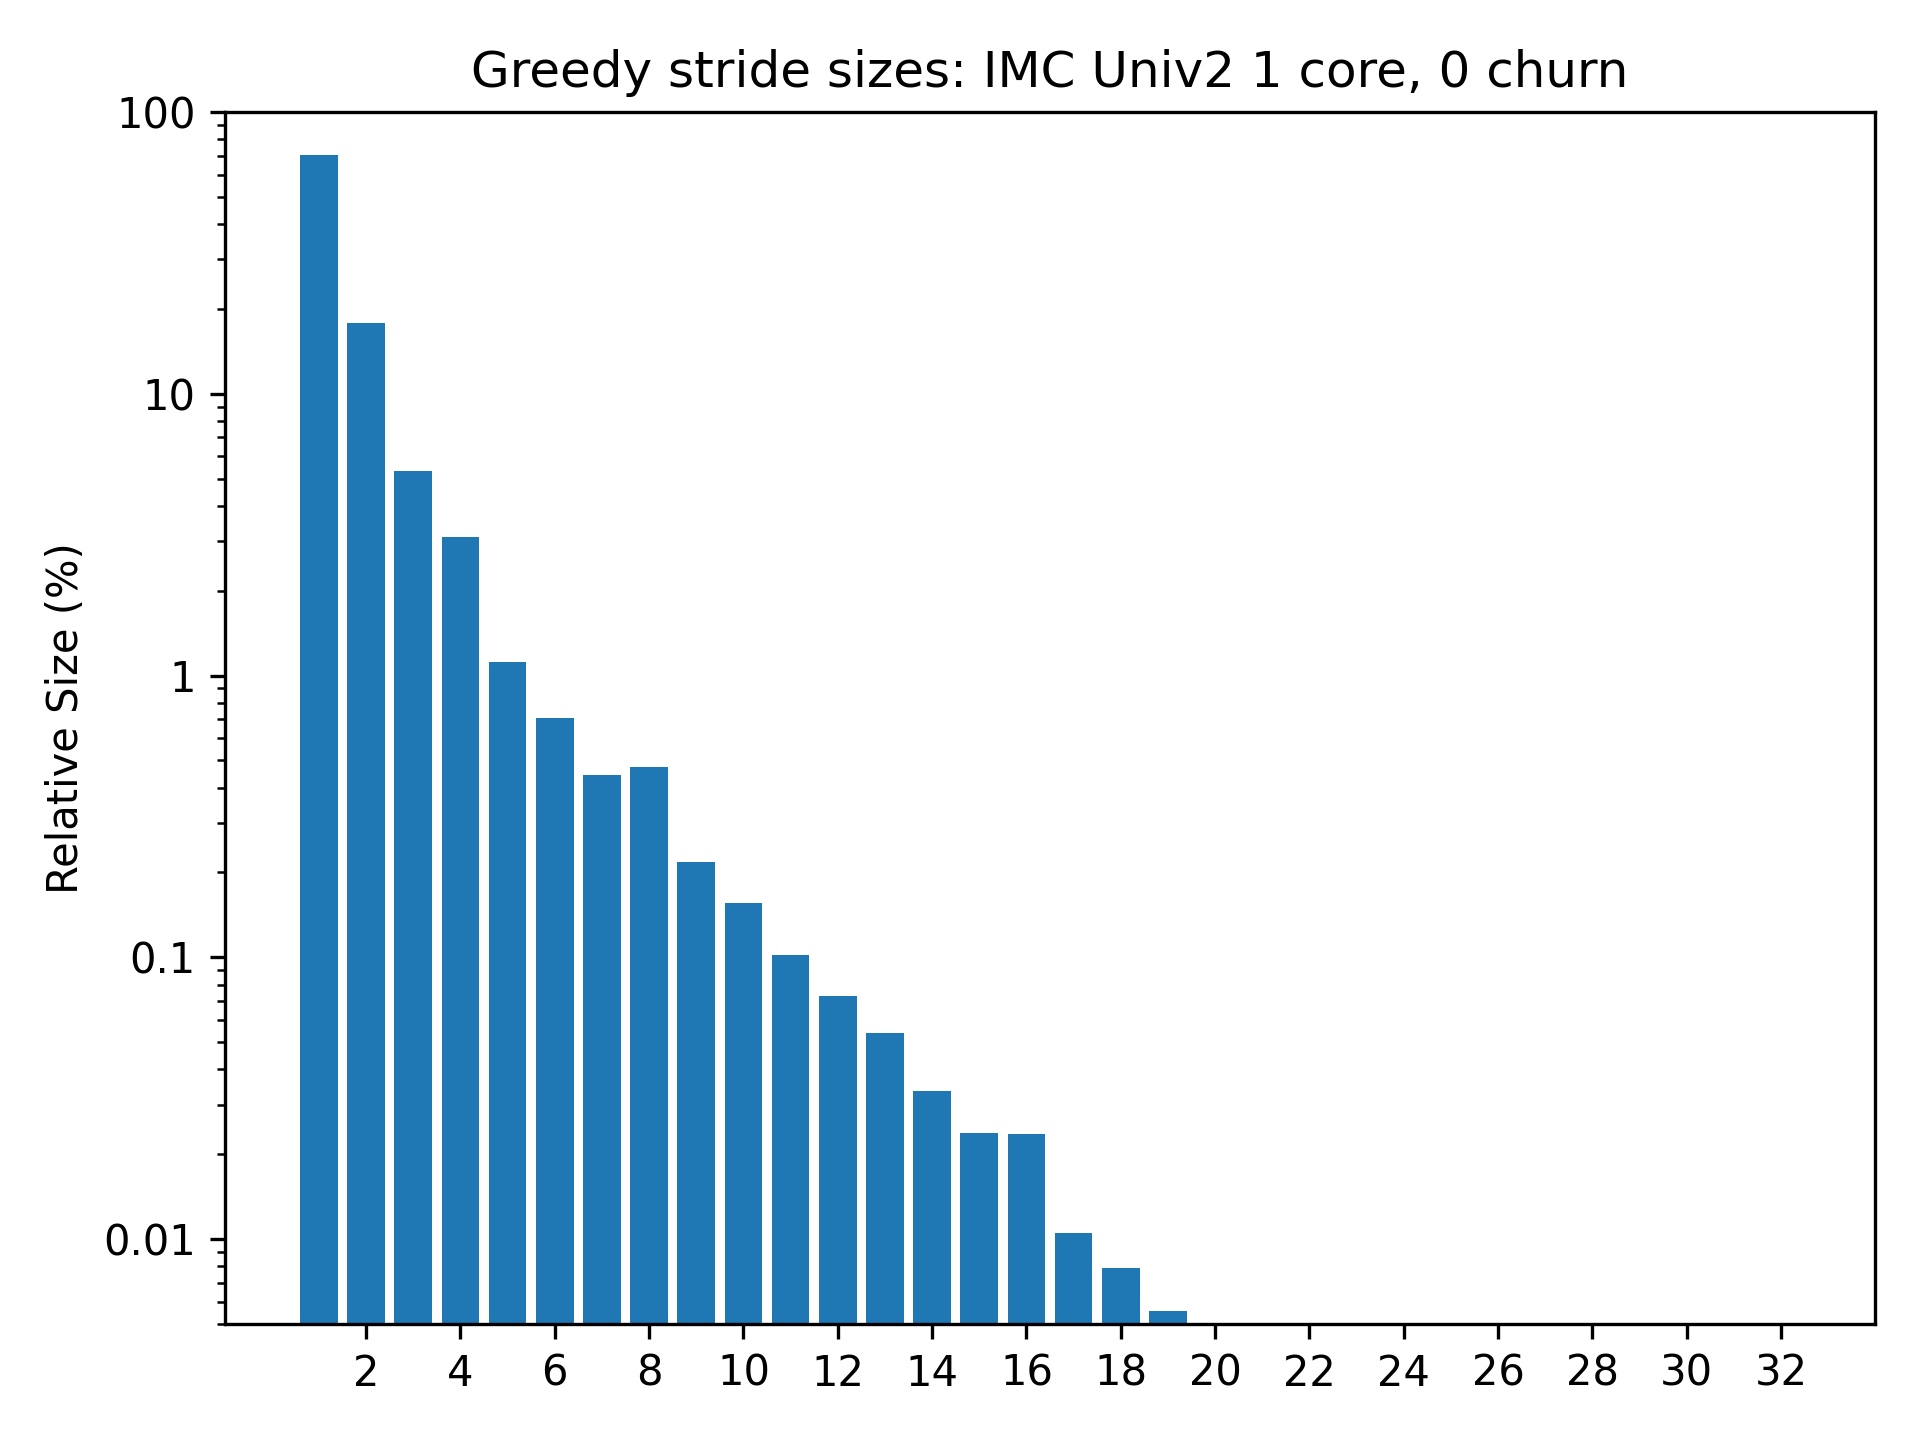
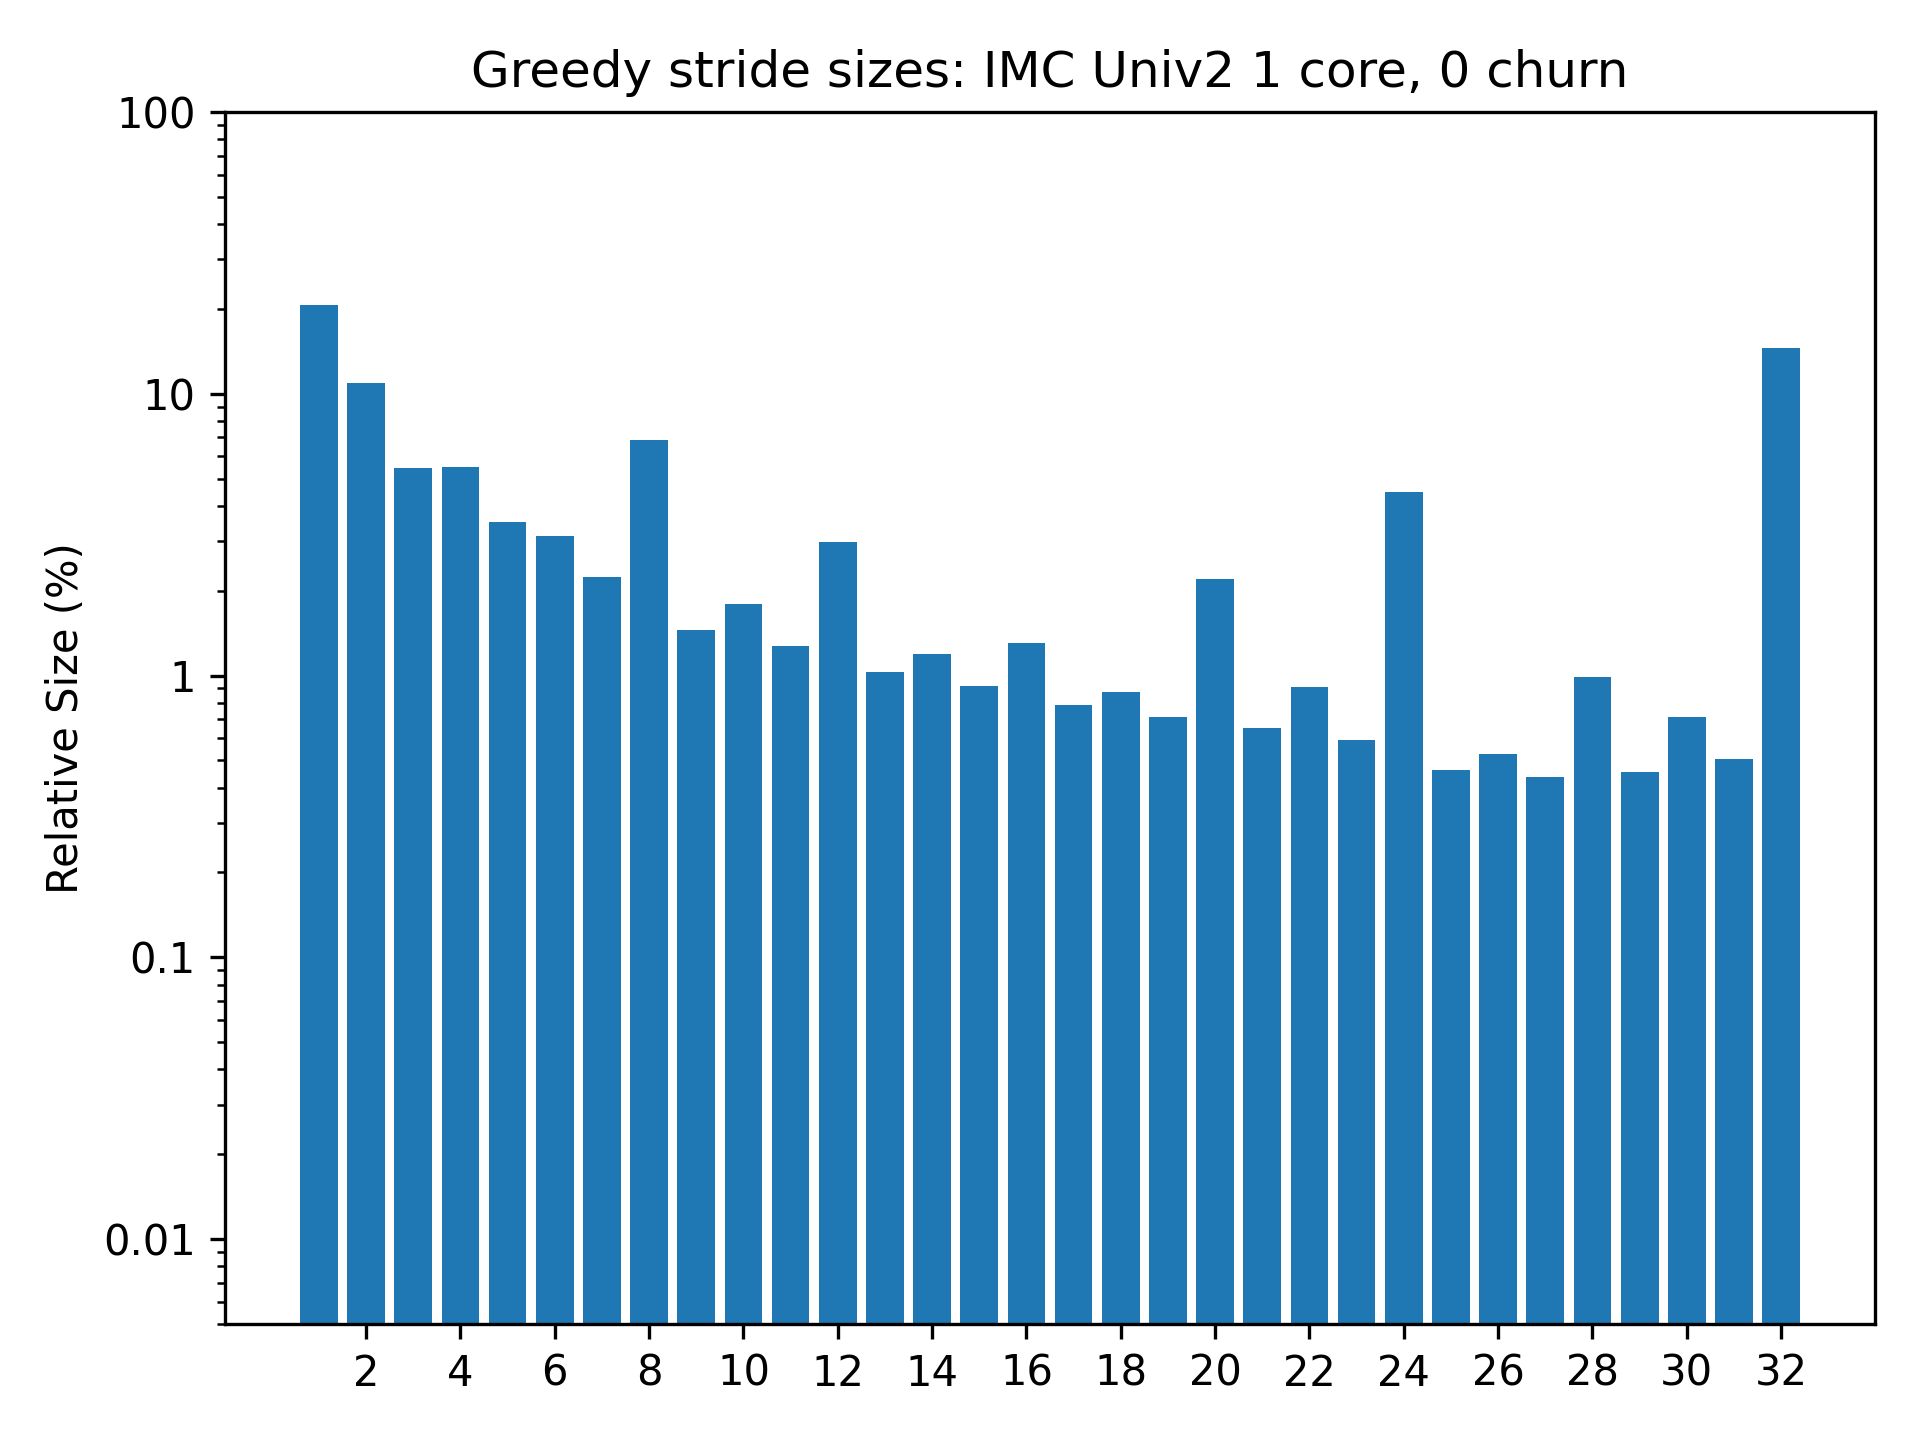
backup

Changed region(s): [[0.2188, 0.2188, 0.9375, 0.9375], [0.1562, 0.0938, 0.2188, 0.2812]]

diff --git a/microbench/preliminary_eval.py b/microbench/preliminary_eval.py
@@ -533,38 +533,38 @@ def plot_strides_sizes_imc_univ2_greedy():
     title = "Greedy stride sizes: IMC Univ2 1 core, 0 churn"
     fname = "stride_sizes_imc_univ2_unsorted"
     stride_sizes = [
-        809273943,
-        206024326,
-        61454398,
-        35664971,
-        12831274,
-        8132180,
-        5106111,
-        5446363,
-        2501762,
-        1788494,
-        1173443,
-        838122,
-        619271,
-        387616,
-        273031,
-        272320,
-        121518,
-        91302,
-        63731,
-        56163,
-        35781,
-        28643,
-        21196,
-        26825,
-        12118,
-        10305,
-        8014,
-        10435,
-        5905,
-        5720,
-        4278,
-        50896,
+        57597312,
+        30459989,
+        15231563,
+        15385831,
+        9806968,
+        8717848,
+        6263532,
+        19188117,
+        4066122,
+        5024253,
+        3546119,
+        8339323,
+        2869760,
+        3333395,
+        2566033,
+        3642966,
+        2193768,
+        2450167,
+        1999070,
+        6157174,
+        1823942,
+        2552951,
+        1650800,
+        12544143,
+        1290273,
+        1472690,
+        1216945,
+        2755520,
+        1270941,
+        1994482,
+        1415694,
+        40774965,
     ]
 
     plot_strides_sizes(title, fname, stride_sizes)
@@ -613,18 +613,18 @@ def plot_strides_sizes_imc_univ2_sorted():
 if __name__ == "__main__":
     OUT_DIR.mkdir(parents=True, exist_ok=True)
 
-    plot_1flow()
-    plot_zipfian_s1_26()
-    plot_zipfian_s1_5()
-    plot_imc_univ2()
+    # plot_1flow()
+    # plot_zipfian_s1_26()
+    # plot_zipfian_s1_5()
+    # plot_imc_univ2()
 
-    plot_strides_sizes_zipfian_s1_26_greedy()
-    plot_strides_sizes_zipfian_s1_26_sorted()
-    plot_strides_sizes_zipfian_s1_5_greedy()
-    plot_strides_sizes_zipfian_s1_5_sorted()
+    # plot_strides_sizes_zipfian_s1_26_greedy()
+    # plot_strides_sizes_zipfian_s1_26_sorted()
+    # plot_strides_sizes_zipfian_s1_5_greedy()
+    # plot_strides_sizes_zipfian_s1_5_sorted()
     plot_strides_sizes_imc_univ2_greedy()
-    plot_strides_sizes_imc_univ2_sorted()
+    # plot_strides_sizes_imc_univ2_sorted()
 
-    plot_orchestrator_zipfian_1_26()
-    plot_orchestrator_zipfian_1_5()
-    plot_orchestrator_imc_univ2()
+    # plot_orchestrator_zipfian_1_26()
+    # plot_orchestrator_zipfian_1_5()
+    # plot_orchestrator_imc_univ2()

diff --git a/nfs/executables/fw_batch_lazy.c b/nfs/executables/fw_batch_lazy.c
@@ -1,4 +1,4 @@
-#define TRACK_STRIDE_SIZES 0
+#define TRACK_STRIDE_SIZES 1
 
 #include "loop_batch_lazy.h"
 
@@ -40,8 +40,8 @@ void flow_manager_allocate_or_refresh_flow(struct flow_t *id, time_ns_t time) {
     return;
   }
   if (!dchain_allocate_new_index(state.heap, &index, time)) {
-    // No luck, the flow table is full, but we can at least let the
-    // outgoing traffic out.
+    // No luck, the flow table is full, but we can at least let the outgoing traffic out.
+    NF_INFO("[%ld] Flow table is full, dropping flow but allowing outgoing traffic", time);
     return;
   }
 

diff --git a/nfs/executables/telemetry_batch_lazy.c b/nfs/executables/telemetry_batch_lazy.c
@@ -67,13 +67,8 @@ int nf_process(uint16_t device, uint8_t *pkt, uint32_t pkt_len, time_ns_t now) {
 
   struct tcpudp_hdrs_t hdrs = nf_get_tcpudp_hdrs(pkt, pkt_len);
 
-  if (hdrs.ipv4_hdr == NULL) {
-    NF_DEBUG("Not IPv4, dropping");
-    return DROP;
-  }
-
-  if (hdrs.tcpudp_hdr == NULL) {
-    NF_DEBUG("Not TCP/UDP, dropping");
+  if (unlikely(hdrs.ipv4_hdr == NULL || hdrs.tcpudp_hdr == NULL)) {
+    NF_DEBUG("Not IPv4 or TCP/UDP, dropping");
     return DROP;
   }
 

diff --git a/nfs/executables/boilerplate.h b/nfs/executables/boilerplate.h
@@ -27,7 +27,7 @@
 #define FLOOD ((uint16_t)-2)
 
 #define MAX_FLOWS 524288
-#define EXPIRATION_TIME_NS 1000000000 // 1 seconds
+#define EXPIRATION_TIME_NS 3000000000 // 3 seconds
 #define LAN 0
 #define WAN 1
 
